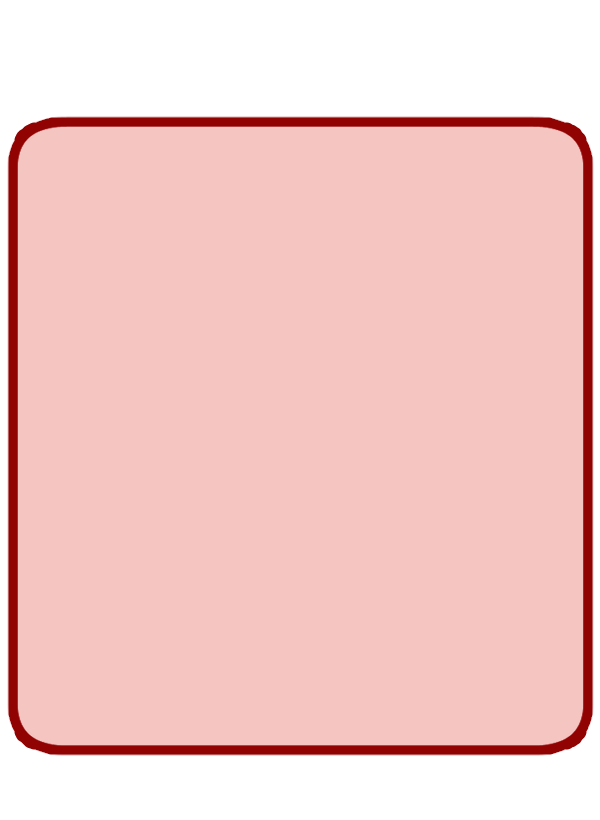
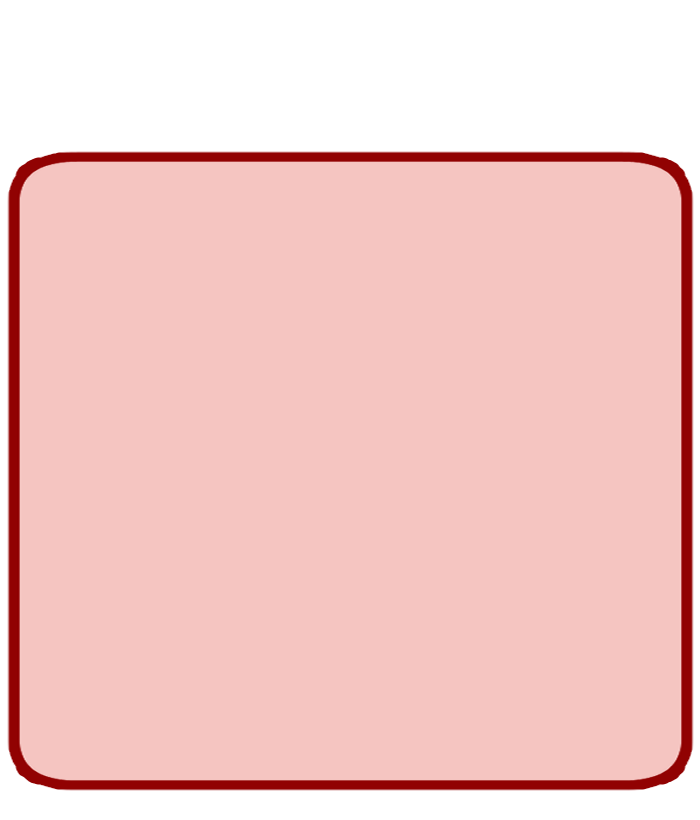
Add files via upload

Changed region(s): [[0.0, 0.122, 1.0, 0.9756]]

diff --git a/styles.css b/styles.css
@@ -11,50 +11,53 @@ body {
   margin: 0;
   padding: 0;
   background-image: url('images/body-bg.png');
-  background-size: auto 100%; /* 高度適應螢幕，保持長寬比 */
+  background-size: auto 100vh;
   background-repeat: no-repeat;
-  background-position: center; /* 中央對齊 */
-  background-color: #f0f0f0; /* 備用背景色 */
-  overflow: hidden;
-  min-height: 100vh; /* 適應不同設備高度 */
-  box-sizing: border-box; /* 確保無意外邊距 */
+  background-position: center;
+  background-color: #f0f0f0;
+  overflow-x: hidden;
+  min-height: 100vh;
+  box-sizing: border-box;
 }
 
 .container {
   position: absolute;
-  top: 0; /* 中央最上方對齊 */
+  top: 0;
   left: 50%;
   transform: translateX(-50%);
-  width: 600px;
-  height: 820px; /* 包含標題、九宮格、按鈕、間距 */
+  height: 90vh;
+  aspect-ratio: 720 / 820; /* 加寬20%，原600/820 ≈ 0.732 改為720/820 ≈ 0.878 */
+  width: calc(90vh * 720 / 820); /* 根據高度計算新寬度 */
+  max-width: 100vw; /* 防止溢出 */
   background-image: url('images/container-bg.png');
-  background-size: 600px 820px;
+  background-size: contain;
   background-repeat: no-repeat;
   background-position: center;
   background-color: transparent;
   text-align: center;
-  box-sizing: border-box; /* 防止邊距影響居中 */
+  box-sizing: border-box;
 }
 
 .title-container {
-  margin-top: 20px;
-  margin-bottom: 20px;
-  width: 300px;
-  height: 100px;
+  margin-top: 2.44vh; /* 原20px/820px ≈ 2.44% */
+  margin-bottom: 2.44vh;
+  height: 12.2vh; /* 原100px/820px ≈ 12.2% */
+  aspect-ratio: 3 / 1;
+  width: calc(12.2vh * 3);
   margin-left: auto;
   margin-right: auto;
 }
 
 .title-img {
-  width: 300px;
-  height: 100px;
+  height: 100%;
+  width: 100%;
   display: block;
   object-fit: contain;
 }
 
 .title-text {
   font-family: 'MantouSans', Arial, sans-serif;
-  font-size: 40px;
+  font-size: 4.88vh;
   color: #333;
   display: none;
 }
@@ -69,59 +72,61 @@ body {
 
 .grid-background {
   background-image: url('images/grid-bg.png');
-  background-size: 600px 600px;
+  background-size: contain;
   background-repeat: no-repeat;
   background-position: center;
   background-color: transparent;
-  width: 600px;
-  height: 600px;
-  border-radius: 10px;
+  height: 73.17vh; /* 原600px/820px ≈ 73.17% */
+  aspect-ratio: 1 / 1;
+  width: calc(73.17vh * 1);
+  border-radius: 1.22vh;
   overflow: hidden;
-  margin: 0 auto; /* 確保九宮格居中 */
+  margin: 0 auto;
 }
 
 .grid {
   display: grid;
-  grid-template-columns: repeat(3, 200px);
-  gap: 10px;
-  width: 600px;
-  height: 600px;
+  grid-template-columns: repeat(3, 33.33%);
+  gap: 0.24vh; /* 保持2px間距 */
+  height: 100%;
+  width: 100%;
   margin: 0;
 }
 
 .grid-item {
   background: transparent;
-  border: 2px solid transparent;
-  border-radius: 10px;
-  padding: 10px;
+  border: 0.24vh solid transparent;
+  border-radius: 1.22vh;
+  padding: 0.61vh; /* 保持5px padding */
   display: flex;
   justify-content: center;
   align-items: center;
 }
 
 .grid-item img {
-  width: 100px;
-  height: 100px;
+  height: 12.2vh;
+  width: auto;
   object-fit: contain;
 }
 
 .grid-item.active {
-  box-shadow: 0 0 20px #ffd700;
+  box-shadow: 0 0 2.44vh #ffd700;
   transform: scale(1.1);
 }
 
 .button-container {
   display: flex;
   justify-content: center;
-  gap: 20px;
-  margin-top: 20px;
-  width: 600px;
+  gap: 2.44vh;
+  margin-top: 2.44vh;
+  height: 6.1vh;
+  width: 100%;
   z-index: 10;
 }
 
 #start-btn, #fullscreen-btn {
-  width: 120px;
-  height: 50px;
+  height: 100%;
+  width: auto;
   object-fit: contain;
   z-index: 10;
 }
@@ -147,9 +152,10 @@ body {
   top: 50%;
   left: 50%;
   transform: translate(-50%, -50%);
-  width: 400px;
-  height: 500px;
-  padding: 20px;
+  height: 60.98vh;
+  aspect-ratio: 4 / 5;
+  width: calc(60.98vh * 4 / 5);
+  padding: 2.44vh;
   text-align: center;
   overflow: hidden;
 }
@@ -158,17 +164,17 @@ body {
   position: absolute;
   top: 0;
   left: 0;
-  width: 400px;
-  height: 500px;
+  height: 100%;
+  width: 100%;
   object-fit: contain;
   z-index: -1;
 }
 
 .close {
   position: absolute;
-  top: 10px;
-  right: 20px;
-  font-size: 24px;
+  top: 1.22vh;
+  right: 2.44vh;
+  font-size: 2.93vh;
   cursor: pointer;
   color: #fff;
   font-family: 'MantouSans', Arial, sans-serif;
@@ -177,29 +183,29 @@ body {
 
 .modal-content h2 {
   font-family: 'MantouSans', Arial, sans-serif;
-  font-size: 40px;
+  font-size: 4.88vh;
   color: #800400;
-  margin: 20px 0 10px;
+  margin: 2.44vh 0 1.22vh;
 }
 
 .modal-content img#result-img {
-  width: 150px;
-  height: 150px;
+  height: 18.29vh;
+  width: auto;
   object-fit: contain;
-  margin: 10px 0;
+  margin: 1.22vh 0;
 }
 
 .modal-content p {
   font-family: 'MantouSans', Arial, sans-serif;
-  font-size: 25px;
+  font-size: 3.05vh;
   color: #800400;
-  margin: 10px 0;
+  margin: 1.22vh 0;
 }
 
 #back-btn {
-  width: 120px;
-  height: 50px;
+  height: 6.1vh;
+  width: auto;
   object-fit: contain;
-  margin-top: 10px;
+  margin-top: 1.22vh;
   z-index: 10;
 }

diff --git a/sw.js b/sw.js
@@ -1,4 +1,4 @@
-const CACHE_NAME = 'lottery-cache-v10'; // 更新快取名稱
+const CACHE_NAME = 'lottery-cache-v13'; // 更新快取名稱
 const urlsToCache = [
   '/',
   '/index.html',
